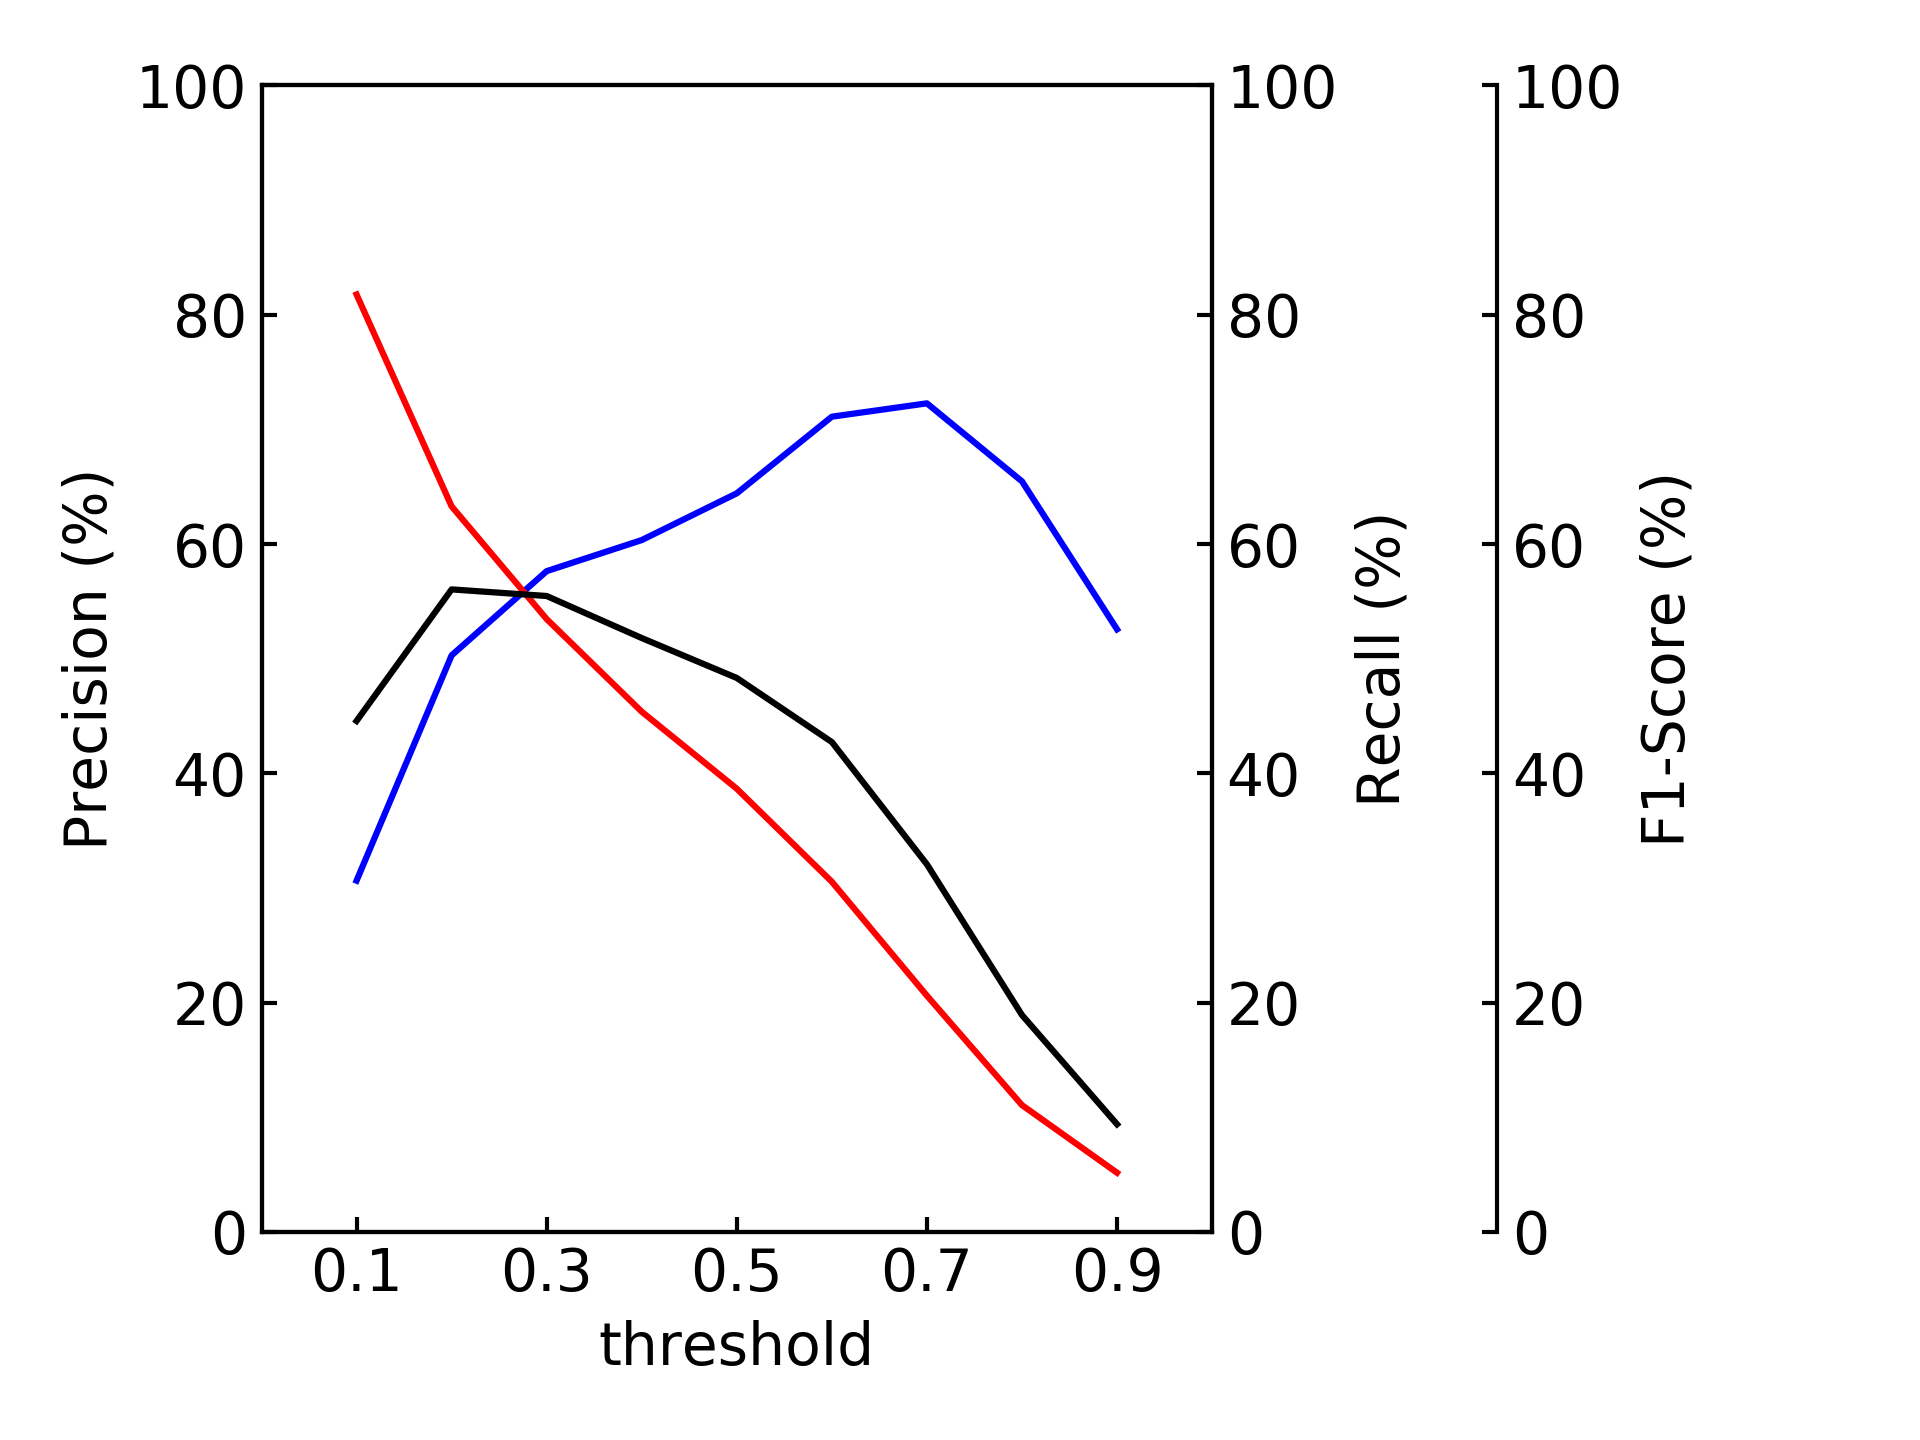
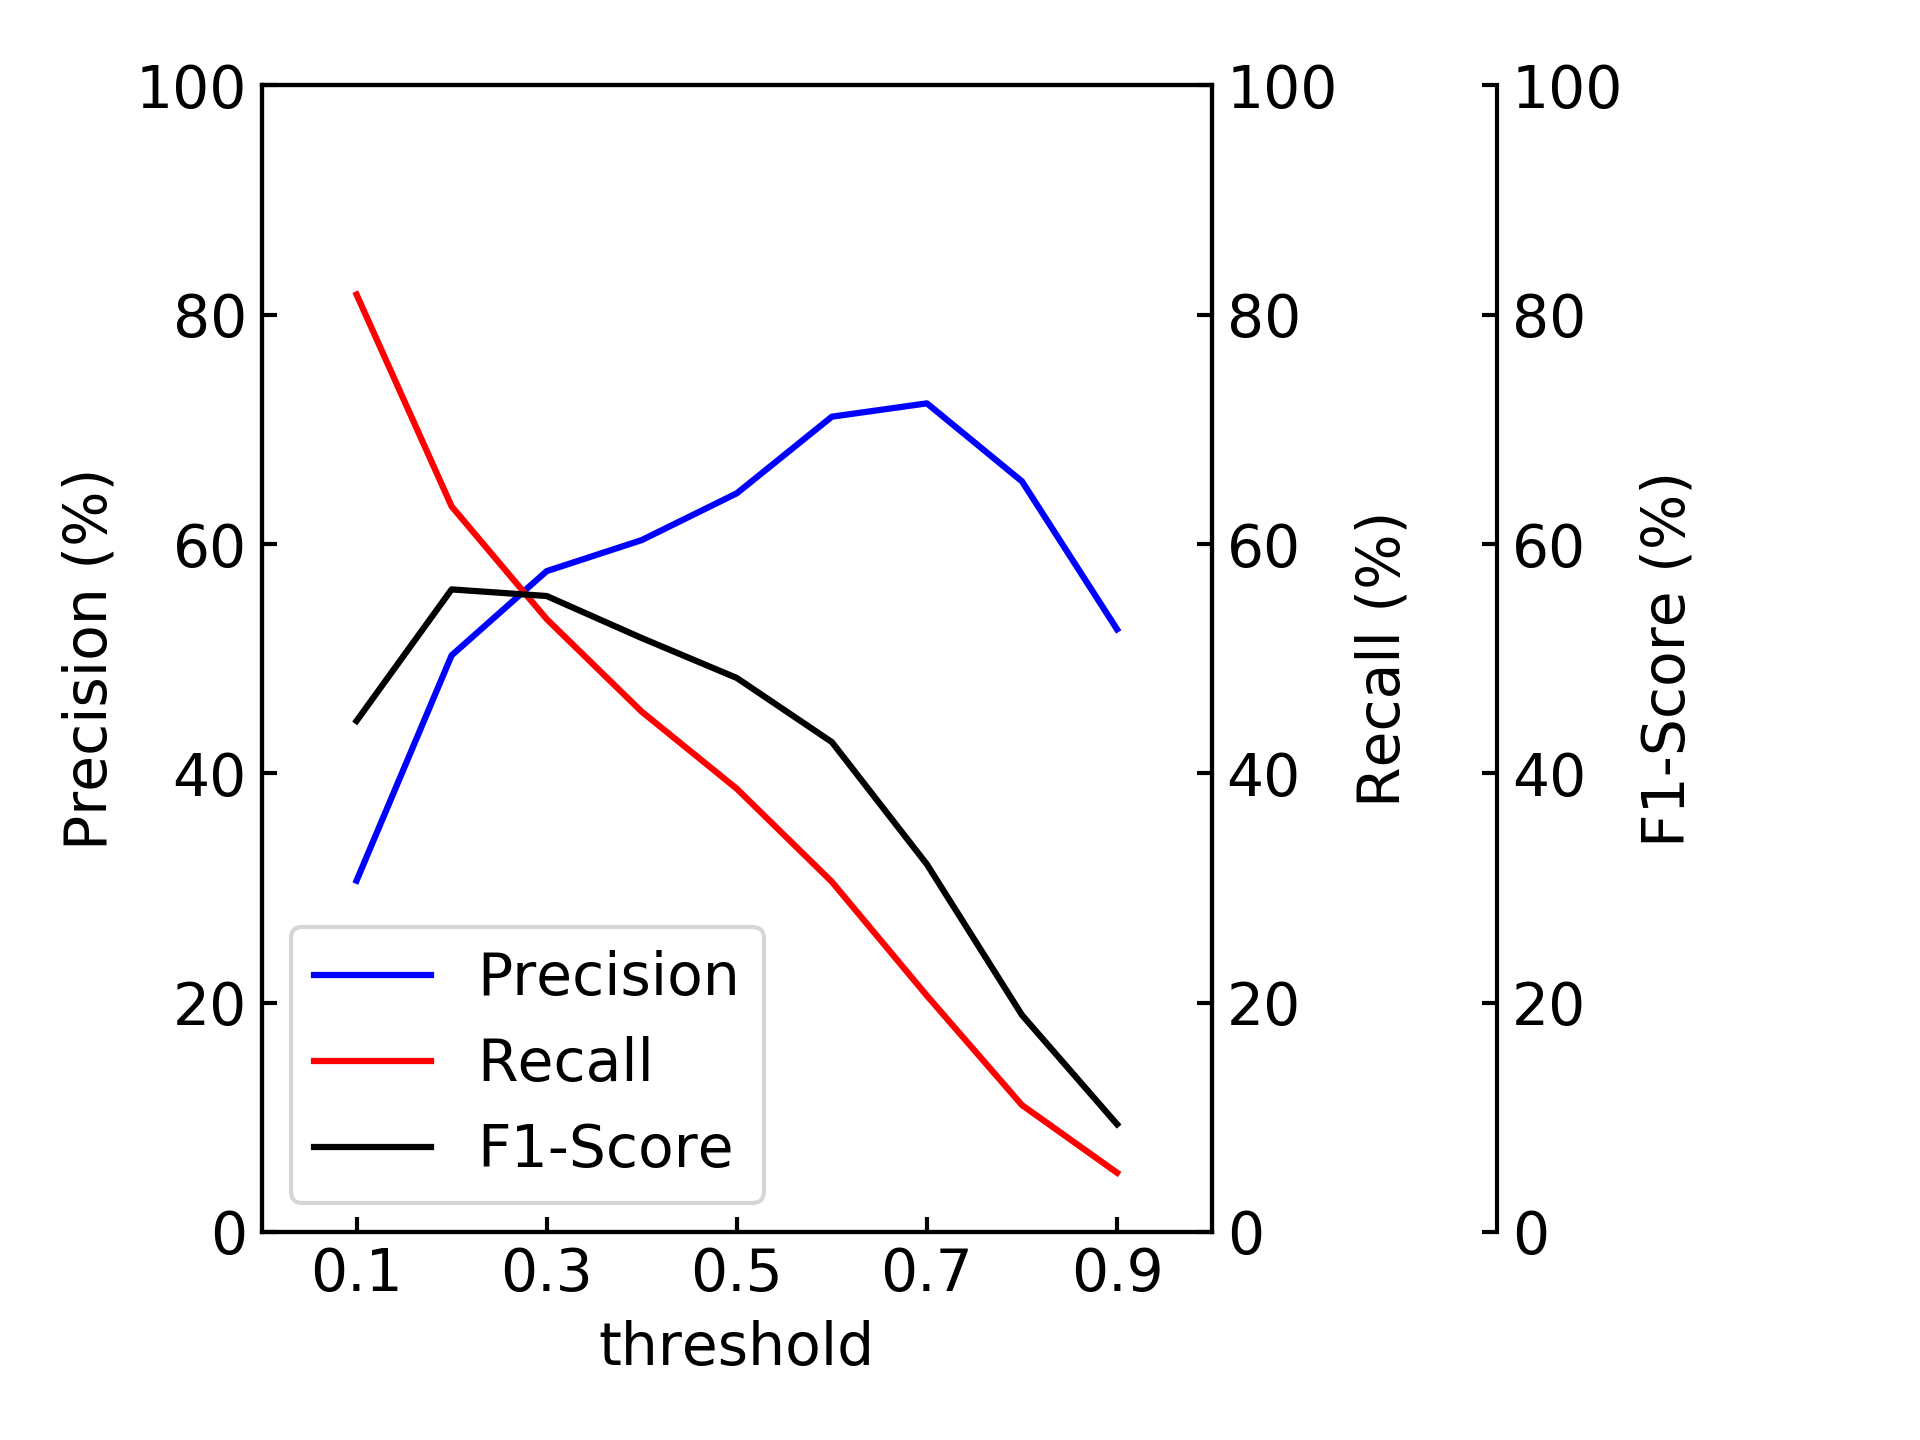
update

diff --git a/endoscopic_images2karte/graph.py b/endoscopic_images2karte/graph.py
@@ -104,6 +104,10 @@ def graph_plot(mode, results, result_name):
         ax3.plot(threshold, f1score_list * 100, label='F1-Score', color='black', linestyle='-')
         ax3.set_yticks(np.arange(0, 101, 20))
         ax3.set_ylabel('F1-Score (%)')
+        h1, l1 = ax1.get_legend_handles_labels()
+        h2, l2 = ax2.get_legend_handles_labels()
+        h3, l3 = ax3.get_legend_handles_labels()
+        ax1.legend(h1+h2+h3, l1+l2+l3, loc='lower left')
 
     plt.tight_layout()
     plt.savefig('./fig/' + result_name + '.pdf', transparent=True)
